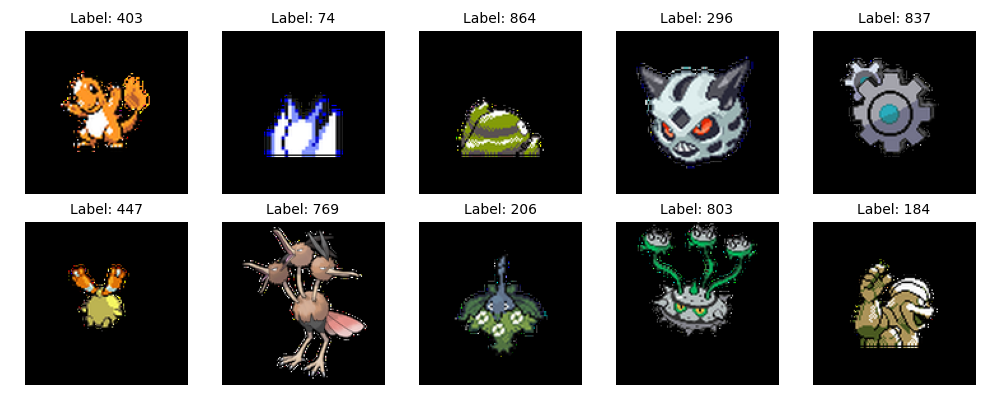
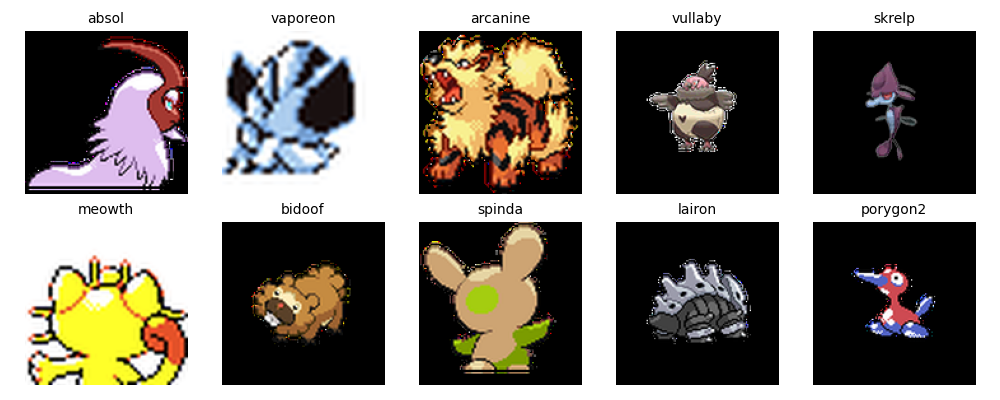
update yaml and class names in data_statistics

diff --git a/src/p100/data_statistics.py b/src/p100/data_statistics.py
@@ -80,19 +80,19 @@ def generate_image_grid_with_random_classes(dataset, output_file, num_images=10)
         if len(selected_classes) >= num_images:
             break  # Stop once we have enough images
 
-        img, label = dataset[idx][:2]  # Unpack image and label (assuming first two items)
+        img, label, class_name = dataset[idx][:3]  # Unpack image, label, and class_name
 
         # Add one image per class
-        if label not in selected_classes:
-            selected_classes[label] = img
+        if class_name not in selected_classes:
+            selected_classes[class_name] = img
 
     # Plot the selected images
-    for i, (label, img) in enumerate(selected_classes.items()):
+    for i, (class_name, img) in enumerate(selected_classes.items()):
         if isinstance(img, torch.Tensor):
             img = transforms.ToPILImage()(img)  # Convert tensor to PIL image if necessary
         
         axes[i].imshow(img)
-        axes[i].set_title(f"Label: {label}", fontsize=10)
+        axes[i].set_title(f"{class_name}", fontsize=10)  # Use class_name as the title
         axes[i].axis("off")  # Remove axes for a cleaner look
 
     # Hide unused axes
